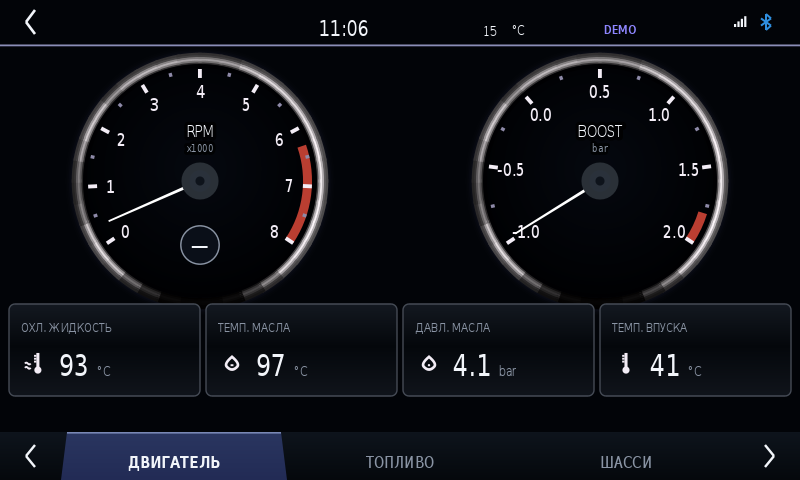
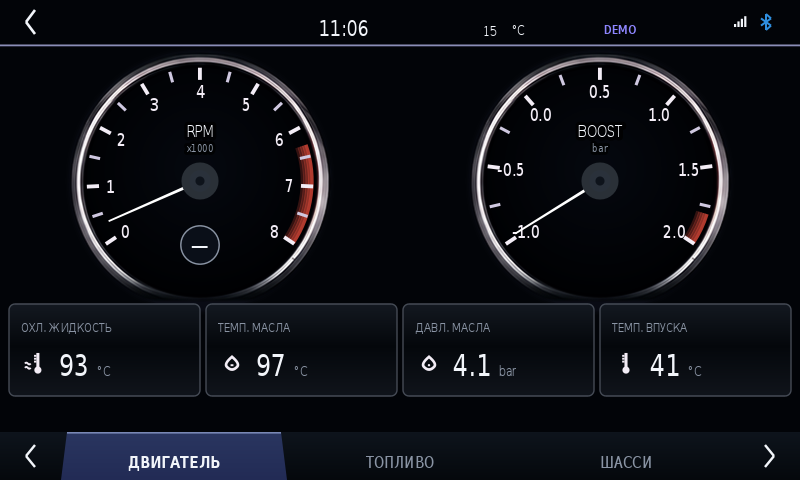
Take the bezel, car and struts from the master, and fix their proportions
The bezel was drawn as arc bands from a 15-degree brightness table. That can
suggest metal but not be it, and next to the master it read flat. It is now
the master's own ring, cut as a 266px RGBA sprite (r 115..132, faded at both
edges, and trimmed below row 302 where the cards start). At the unit's
geometry the dial radius is 128, so the ring lands at its native size — no
resampling to blur it.

The car was stretched 46% horizontally: its width scaled with the left
column, its height with the window. Both sprites now keep their own aspect
ratio, and the car is fitted between the struts and centred on them. The
struts were the weakest thing on the screen — a vector coil that never looked
like the reference — and are now the master's own, scaled only by the window.

Measuring the ticks turned up the real reason the scale looked sparse: on the
master both major and minor ticks run 0.79..0.885 of the radius, while ours
drew the minor ones four times shorter. Fixed, and the minor colour matched
to the reference. The red zone is a gradient there too, strongest at the rim
and fading inward, so it is now five arcs instead of one flat band.

Nothing is released: this is for visual review only.

Claude-Session: https://claude.ai/code/session_01AeBYVRgcuWG4wjUF3Tci1p

Changed region(s): [[0.5625, 0.0938, 0.9375, 0.625], [0.0625, 0.0938, 0.4375, 0.625]]

diff --git a/src/com/q50gtr/plus/ui/OemDial.java b/src/com/q50gtr/plus/ui/OemDial.java
@@ -27,13 +27,19 @@ public final class OemDial {
      * ~0.70 подписи, дальше циферблат. */
     private static final float BEZEL_IN    = 0.914f;   // 117 px при R = 128
     private static final float RING_IN     = 0.883f;   // 113 px
-    private static final float TICK_OUT    = 0.875f;   // 112 px
-    private static final float TICK_MAJ_IN = 0.805f;   // 103 px
-    private static final float TICK_MIN_IN = 0.845f;   // 108 px
+    // Замер по эталону: и основные, и промежуточные деления идут от 0.79 до
+    // 0.885 радиуса. Промежуточные были вчетверо короче — отсюда и ощущение
+    // пустой шкалы.
+    private static final float TICK_OUT    = 0.885f;
+    private static final float TICK_MAJ_IN = 0.790f;
+    private static final float TICK_MIN_IN = 0.800f;
     private static final float LABEL_R     = 0.700f;   //  90 px
 
     /** Радиальный профиль яркости кольца: внутри тускло, пик у 0.94, к краю спад. */
     private static final float[] BEZEL_BANDS = {0.30f, 0.72f, 1.00f, 0.75f, 0.40f, 0.31f};
+
+    /** Полос в градиенте красной зоны. */
+    private static final int RED_BANDS = 5;
 
     /** Колец в ореоле вокруг прибора. */
     private static final int GLOW_STEPS = 7;
@@ -97,9 +103,18 @@ public final class OemDial {
         // Кольцо рисуется дугами, а не растром: растр пришлось бы
         // масштабировать под фактический размер прибора, а это ровно то мыло,
         // из-за которого от полноэкранного фона и отказались.
-        drawBezelRings(c, t, r);
-        c.drawCircle(0f, 0f, r * BEZEL_IN, t.fill(Theme.RING_DARK));
-        c.drawCircle(0f, 0f, r * RING_IN, t.dial(r));
+        if (Sprites.hasBezel()) {
+            // Кольцо берётся с эталона: полированный металл с бликом и тенью
+            // примитивами не набирается. Растр кладётся в свой размер, при
+            // штатной геометрии окна — почти один к одному.
+            c.drawCircle(0f, 0f, r * BEZEL_IN, t.fill(Theme.RING_DARK));
+            c.drawCircle(0f, 0f, r * RING_IN, t.dial(r));
+            Sprites.bezel(c, 0f, 0f, r);
+        } else {
+            drawBezelRings(c, t, r);
+            c.drawCircle(0f, 0f, r * BEZEL_IN, t.fill(Theme.RING_DARK));
+            c.drawCircle(0f, 0f, r * RING_IN, t.dial(r));
+        }
     }
 
     /** Запасной безель, если растр недоступен: кольцо из дуг по профилю. */
@@ -126,15 +141,23 @@ public final class OemDial {
                                  boolean showValue, String emptyNote,
                                  float needleAt) {
 
-        // 2. Красная зона — сектор во всю ширину полосы делений.
+        // 2. Красная зона. На эталоне это не плашка, а градиент: у обода
+        //    насыщенный (186,62,49), внутрь гаснет до сероватого. Набираем
+        //    несколькими дугами с растущей к ободу непрозрачностью.
         if (!Float.isNaN(redlineFrom) && redlineFrom > min && redlineFrom < max) {
-            float band = (TICK_OUT - TICK_MAJ_IN) * r;
-            float rr = (TICK_OUT + TICK_MAJ_IN) / 2f * r;
-            t.rect.set(-rr, -rr, rr, rr);
-            float f = (redlineFrom - min) / (max - min);
-            float from = ARC_START + ARC_SWEEP * f;
-            c.drawArc(t.rect, from, ARC_START + ARC_SWEEP - from, false,
-                    t.stroke(Theme.RED_ZONE, band));
+            float f0 = (redlineFrom - min) / (max - min);
+            float from = ARC_START + ARC_SWEEP * f0;
+            float sweep = ARC_START + ARC_SWEEP - from;
+            float step = (TICK_OUT - TICK_MAJ_IN) / RED_BANDS;
+            for (int i = 0; i < RED_BANDS; i++) {
+                float inner = TICK_MAJ_IN + step * i;
+                float rr = (inner + step * 0.5f) * r;
+                int alpha = 70 + (int) (170f * i / (float) (RED_BANDS - 1));
+                t.rect.set(-rr, -rr, rr, rr);
+                c.drawArc(t.rect, from, sweep, false,
+                        t.stroke((alpha << 24) | (Theme.RED_ZONE & 0xFFFFFF),
+                                step * r + 0.8f));
+            }
         }
 
         // 3. Промежуточные деления — посередине между основными.
@@ -144,7 +167,7 @@ public final class OemDial {
             float cos = (float) Math.cos(a), sin = (float) Math.sin(a);
             c.drawLine(cos * r * TICK_MIN_IN, sin * r * TICK_MIN_IN,
                     cos * r * TICK_OUT, sin * r * TICK_OUT,
-                    t.stroke(Theme.TICK_MINOR, r * 0.026f));
+                    t.stroke(Theme.TICK_MINOR, r * 0.024f));
         }
 
         // 4. Основные деления и подписи шкалы.

diff --git a/src/com/q50gtr/plus/ui/Sprites.java b/src/com/q50gtr/plus/ui/Sprites.java
@@ -9,24 +9,30 @@ import android.graphics.Paint;
 import android.graphics.RectF;
 
 /**
- * Единственный растр в приложении: вид Q50 сзади на вкладке ШАССИ.
+ * Неподвижная декоративная графика, вырезанная из утверждённого эталона
+ * (tools/uispec/make_sprites.py).
  *
- * Всё остальное — приборы, шкалы, деления, текст, карточки, панели —
- * рисуется Canvas в конечном размере, поэтому масштабируется без потери
- * резкости. Автомобиль так нарисовать нельзя: на эталоне это фотография.
+ * Сюда попадает только то, что примитивами убедительно не нарисовать:
+ * полированное кольцо прибора, автомобиль и стойка пневмоподвески. Шкалы,
+ * деления, цифры, стрелки, карточки и панели рисует Canvas.
  *
- * Растр хранится в исходном разрешении эталона (198x138) и увеличивается
- * не более чем примерно в полтора раза, с билинейной фильтрацией. Если
- * ресурс не прочитался, рисуется векторный запасной вариант.
+ * Растры всегда кладутся в своём соотношении сторон и при штатной геометрии
+ * окна (800x480) выходят почти один к одному со своим исходным размером —
+ * никакого заметного пересэмплинга.
  */
 public final class Sprites {
 
+    private static Bitmap dialBezel;
     private static Bitmap carRear;
+    private static Bitmap airStrut;
     private static boolean loaded;
 
     private static final Paint PAINT =
             new Paint(Paint.FILTER_BITMAP_FLAG | Paint.DITHER_FLAG);
     private static final RectF DST = new RectF();
+
+    /** Доля радиуса прибора, которую занимает половина растра кольца. */
+    private static final float BEZEL_SPAN = 133f / 128f;
 
     private Sprites() {
     }
@@ -43,21 +49,68 @@ public final class Sprites {
         BitmapFactory.Options opts = new BitmapFactory.Options();
         opts.inScaled = false;
         opts.inDither = true;
-        int id = res.getIdentifier("q50_rear", "drawable", context.getPackageName());
-        if (id != 0) {
-            carRear = BitmapFactory.decodeResource(res, id, opts);
-        }
+        dialBezel = decode(res, context, "dial_bezel", opts);
+        carRear = decode(res, context, "q50_rear", opts);
+        airStrut = decode(res, context, "air_strut", opts);
+    }
+
+    private static Bitmap decode(Resources res, Context ctx, String name,
+                                 BitmapFactory.Options opts) {
+        int id = res.getIdentifier(name, "drawable", ctx.getPackageName());
+        return id == 0 ? null : BitmapFactory.decodeResource(res, id, opts);
+    }
+
+    public static boolean hasBezel() {
+        return dialBezel != null;
     }
 
     public static boolean hasCar() {
         return carRear != null;
     }
 
-    public static void car(Canvas c, float x, float y, float w, float h) {
+    public static boolean hasStrut() {
+        return airStrut != null;
+    }
+
+    /** Кольцо прибора вокруг центра (cx, cy) с радиусом циферблата r. */
+    public static void bezel(Canvas c, float cx, float cy, float r) {
+        if (dialBezel == null) {
+            return;
+        }
+        float half = r * BEZEL_SPAN;
+        draw(c, dialBezel, cx - half, cy - half, half * 2f, half * 2f);
+    }
+
+    /** Высота автомобиля при заданной ширине, в своём соотношении сторон. */
+    public static float carHeightFor(float width) {
         if (carRear == null) {
+            return width * 138f / 198f;
+        }
+        return width * carRear.getHeight() / (float) carRear.getWidth();
+    }
+
+    public static void car(Canvas c, float x, float y, float w) {
+        draw(c, carRear, x, y, w, carHeightFor(w));
+    }
+
+    /** Ширина стойки при заданной высоте, в своём соотношении сторон. */
+    public static float strutWidthFor(float height) {
+        if (airStrut == null) {
+            return height * 27f / 119f;
+        }
+        return height * airStrut.getWidth() / (float) airStrut.getHeight();
+    }
+
+    public static void strut(Canvas c, float cx, float y, float h) {
+        float w = strutWidthFor(h);
+        draw(c, airStrut, cx - w * 0.5f, y, w, h);
+    }
+
+    private static void draw(Canvas c, Bitmap b, float x, float y, float w, float h) {
+        if (b == null) {
             return;
         }
         DST.set(x, y, x + w, y + h);
-        c.drawBitmap(carRear, null, DST, PAINT);
+        c.drawBitmap(b, null, DST, PAINT);
     }
 }

diff --git a/tools/uispec/make_sprites.py b/tools/uispec/make_sprites.py
@@ -1,0 +1,86 @@
+#!/usr/bin/env python3
+"""Вырезать из утверждённого эталона неподвижную декоративную графику.
+
+Берётся только то, что Canvas-примитивами не воспроизвести убедительно:
+металлическое кольцо прибора, автомобиль и стойка пневмоподвески. Шкалы,
+деления, цифры, стрелки, карточки и панели по-прежнему рисуются кодом.
+
+    python3 tools/uispec/make_sprites.py
+
+Пишет res/drawable-nodpi/{dial_bezel,q50_rear,air_strut}.png.
+"""
+import os
+import numpy as np
+from PIL import Image
+
+ROOT = os.path.dirname(os.path.dirname(os.path.dirname(os.path.abspath(__file__))))
+REF = os.path.join(ROOT, "reference", "ui-master")
+OUT = os.path.join(ROOT, "res", "drawable-nodpi")
+
+# Сдвиг кадрирования у экрана ШАССИ и левая кромка рамки (спека, п.1).
+FRAME_X, DRIFT_CHASSIS = 152, 22
+
+# Прибор на MASTER_ENGINE (спека, п.5).
+DIAL_CX, DIAL_CY = 289.2, 180.8
+# Кольцо: внутрь до тёмного ободка, наружу за внешнюю кромку безеля.
+# Деления кончаются на r = 112, красная зона на 114 — начинаем с 115,
+# чтобы в кольцо не затекла красная полоса. Снаружи режем на 132: дальше
+# начинается верхняя кромка карточек.
+R_IN, R_FADE_IN, R_FADE_OUT, R_OUT = 115.0, 119.0, 128.0, 132.0
+
+
+def master(name):
+    return Image.open(os.path.join(REF, "MASTER_%s_840x480.png" % name)).convert("RGB")
+
+
+def feather(rgb, fade=14.0):
+    """Свести края кропа в прозрачность: иначе виден прямоугольник."""
+    a = np.asarray(rgb).astype(float)
+    h, w, _ = a.shape
+    yy, xx = np.mgrid[0:h, 0:w]
+    d = np.minimum(np.minimum(xx, w - 1 - xx), np.minimum(yy, h - 1 - yy)).astype(float)
+    alpha = np.clip(d / fade, 0.0, 1.0)
+    return Image.fromarray(np.dstack([a, alpha * 255.0]).astype(np.uint8), "RGBA")
+
+
+def bezel():
+    """Кольцо прибора: самая дорогая на вид деталь и самая безнадёжная для
+    примитивов — на эталоне это полированный металл с бликами и тенью."""
+    m = np.asarray(master("ENGINE")).astype(float)
+    n = int(np.ceil(R_OUT)) * 2 + 2
+    x0 = int(round(DIAL_CX - n / 2.0))
+    y0 = int(round(DIAL_CY - n / 2.0))
+    crop = m[y0:y0 + n, x0:x0 + n]
+
+    yy, xx = np.mgrid[0:n, 0:n]
+    r = np.hypot(xx - (DIAL_CX - x0), yy - (DIAL_CY - y0))
+    a = np.clip((r - R_IN) / (R_FADE_IN - R_IN), 0, 1)
+    a *= np.clip((R_OUT - r) / (R_OUT - R_FADE_OUT), 0, 1)
+    # Снизу кольцо на эталоне заходит под карточки, и в кроп попадает их
+    # верхняя кромка. Режем по строке, с которой карточки начинаются.
+    a *= np.clip((302.0 - (yy + y0)) / 4.0, 0, 1)
+
+    img = Image.fromarray(np.dstack([crop, np.clip(a, 0, 1) * 255.0]).astype(np.uint8), "RGBA")
+    img.save(os.path.join(OUT, "dial_bezel.png"))
+    return "dial_bezel.png", img.size
+
+
+def car():
+    x = FRAME_X + DRIFT_CHASSIS
+    img = feather(master("CHASSIS").crop((69 + x, 125, 267 + x, 263)), fade=26.0)
+    img.save(os.path.join(OUT, "q50_rear.png"))
+    return "q50_rear.png", img.size
+
+
+def strut():
+    x = FRAME_X + DRIFT_CHASSIS
+    img = feather(master("CHASSIS").crop((31 + x, 129, 58 + x, 248)), fade=5.0)
+    img.save(os.path.join(OUT, "air_strut.png"))
+    return "air_strut.png", img.size
+
+
+if __name__ == "__main__":
+    os.makedirs(OUT, exist_ok=True)
+    for fn in (bezel, car, strut):
+        name, size = fn()
+        print("%-18s %s" % (name, size))

diff --git a/src/com/q50gtr/plus/ui/ChassisPage.java b/src/com/q50gtr/plus/ui/ChassisPage.java
@@ -24,21 +24,58 @@ public final class ChassisPage implements Page {
         c.drawText("ДАВЛЕНИЕ ПНЕВМОПОДВЕСКИ (bar)", leftW * 0.52f, 78f * s,
                 t.text(Theme.LABEL, l.text(14f), Paint.Align.CENTER, false));
 
-        float carX = 69f * k;
-        float carW = 198f * k;
+        // Автомобиль и стойки кладутся в своём соотношении сторон.
+        // Раньше ширина считалась через k, а высота через s — на 800x480 это
+        // растягивало автомобиль по горизонтали почти в полтора раза.
+        float strutH = 119f * s;
+        float strutW = Sprites.hasStrut()
+                ? Sprites.strutWidthFor(strutH) : 27f * s;
+        float strutTop = 129f * s;
+
+        // Стойки по краям левой половины, автомобиль — между ними.
+        float strutL = 44f * k;
+        float strutR = leftW - 49f * k;
+        float gapL = strutL + strutW * 0.5f + 14f * s;
+        float gapR = strutR - strutW * 0.5f - 14f * s;
+
+        float carW = gapR - gapL;
+        float carH = Sprites.hasCar()
+                ? Sprites.carHeightFor(carW) : carW * 138f / 198f;
+        float maxCarH = 150f * s;
+        if (carH > maxCarH) {
+            carH = maxCarH;
+            carW = Sprites.hasCar()
+                    ? carH * 198f / 138f : carH * 198f / 138f;
+        }
+        float carX = (gapL + gapR - carW) * 0.5f;
+        float carY = strutTop + (strutH - carH) * 0.5f;
+
         if (Sprites.hasCar()) {
-            Sprites.car(c, carX, 125f * s, carW, 138f * s);
+            Sprites.car(c, carX, carY, carW);
         } else {
-            Q50Rear.car(c, t, carX, 125f * s, carW, 138f * s);
+            Q50Rear.car(c, t, carX, carY, carW, carH);
         }
 
-        float strutL = 44f * k;
-        float strutR = 296f * k;
-        float strutH = 59f * s;
-        Q50Rear.strut(c, t, strutL, 158f * s, strutH, d.airFrontLeft, true);
-        Q50Rear.strut(c, t, strutR, 158f * s, strutH, d.airFrontRight, true);
-        Q50Rear.strut(c, t, strutL, 219f * s, strutH, d.airRearLeft, false);
-        Q50Rear.strut(c, t, strutR, 219f * s, strutH, d.airRearRight, false);
+        if (Sprites.hasStrut()) {
+            Sprites.strut(c, strutL, strutTop, strutH);
+            Sprites.strut(c, strutR, strutTop, strutH);
+        } else {
+            Q50Rear.strut(c, t, strutL, strutTop + strutH * 0.25f, strutH * 0.5f,
+                    d.airFrontLeft, true);
+            Q50Rear.strut(c, t, strutR, strutTop + strutH * 0.25f, strutH * 0.5f,
+                    d.airFrontRight, true);
+            Q50Rear.strut(c, t, strutL, strutTop + strutH * 0.75f, strutH * 0.5f,
+                    d.airRearLeft, false);
+            Q50Rear.strut(c, t, strutR, strutTop + strutH * 0.75f, strutH * 0.5f,
+                    d.airRearRight, false);
+        }
+
+        // Давления — динамические, над и под стойками.
+        float press = 21f * s;
+        OemTile.centred(c, t, strutL, strutTop - 9f * s, d.airFrontLeft, 1, press);
+        OemTile.centred(c, t, strutR, strutTop - 9f * s, d.airFrontRight, 1, press);
+        OemTile.centred(c, t, strutL, strutTop + strutH + 26f * s, d.airRearLeft, 1, press);
+        OemTile.centred(c, t, strutR, strutTop + strutH + 26f * s, d.airRearRight, 1, press);
 
         float colX = l.chassisColX();
         float colW = l.chassisColW();

diff --git a/src/com/q50gtr/plus/ui/Theme.java b/src/com/q50gtr/plus/ui/Theme.java
@@ -47,7 +47,9 @@ public final class Theme {
 
     public static final int WHITE = 0xFFF2F5FA;
     public static final int TICK = 0xFFF3EDF6;
-    public static final int TICK_MINOR = 0xFF8E8AA8;
+    /* Промежуточные деления на эталоне почти такие же яркие, как основные,
+     * только чуть холоднее и тоньше. */
+    public static final int TICK_MINOR = 0xFFCFC8E0;
     public static final int LABEL = 0xFF8A94A4;
     public static final int VALUE_DIM = 0xFF4A5462;
 
